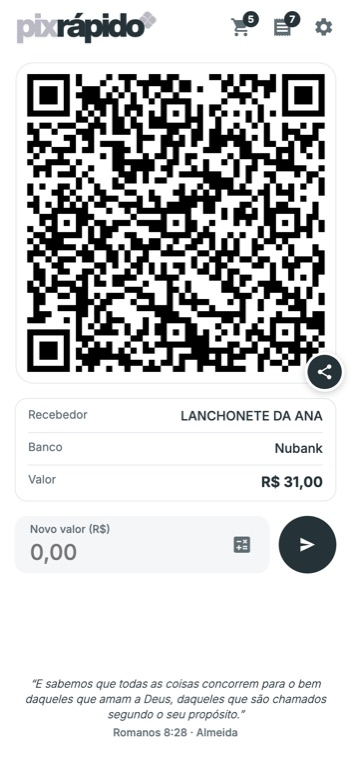
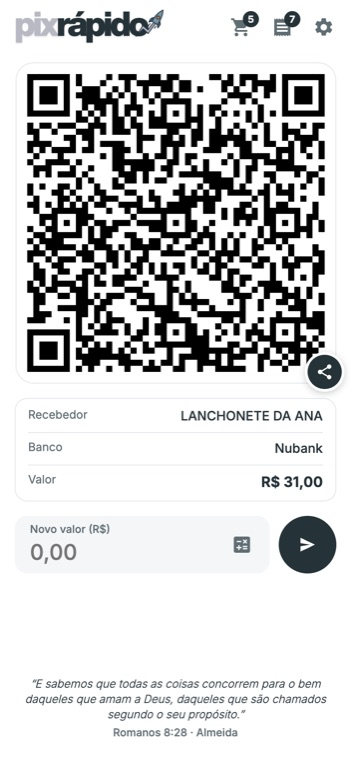
Nova identidade visual; política com legítimo interesse para anúncios não personalizados

Changed region(s): [[0.0855, 0.0, 0.4843, 0.0605], [0.057, 0.0303, 0.0855, 0.0605]]

diff --git a/privacidade/index.html b/privacidade/index.html
@@ -64,7 +64,12 @@
       </ul>
 
       <h2>5. Bases legais</h2>
-      <p>Tratamos dados com base no seu <strong>consentimento</strong> (LGPD, art. 7º, I), coletado na primeira abertura do app, e, quanto à cobrança da assinatura, na <strong>execução do contrato</strong> (art. 7º, V), realizada pela loja de aplicativos. A personalização de anúncios depende de consentimento específico e separado, que pode ser recusado sem prejuízo do uso do app.</p>
+      <ul>
+        <li><strong>Anúncios não personalizados (versão grátis):</strong> legítimo interesse (LGPD, art. 7º, IX e art. 10), para manter o app gratuito. O tratamento se limita ao necessário para entregar e medir anúncios e prevenir fraude, é informado na primeira abertura do app e nesta política, e você pode evitá-lo assinando o Pro ou deixando de usar o app.</li>
+        <li><strong>Anúncios personalizados:</strong> consentimento (art. 7º, I), opcional e separado, que pode ser recusado ou revogado sem nenhum prejuízo ao uso do app.</li>
+        <li><strong>Assinatura Pro:</strong> execução de contrato (art. 7º, V), com a cobrança feita pela loja de aplicativos.</li>
+        <li><strong>Versículo do dia:</strong> legítimo interesse, limitado ao endereço IP necessário para a requisição.</li>
+      </ul>
 
       <h2>6. Transferência internacional</h2>
       <p>Google e Apple podem tratar dados em servidores fora do Brasil. Essas transferências seguem as garantias previstas na LGPD (art. 33) e nas políticas desses fornecedores.</p>
@@ -77,7 +82,8 @@
       <ul>
         <li><strong>acesso e correção:</strong> nas telas do app (Configurações, Produtos e Caixa);</li>
         <li><strong>portabilidade:</strong> exportando o relatório em PDF, CSV ou TXT;</li>
-        <li><strong>eliminação e revogação:</strong> em <em>Configurações → Limpar meus dados</em>, que apaga tudo e revoga o consentimento, sem exigir assinatura;</li>
+        <li><strong>eliminação:</strong> em <em>Configurações → Limpar meus dados</em>, que apaga tudo, sem exigir assinatura;</li>
+        <li><strong>revogação e oposição:</strong> desative <em>Anúncios personalizados</em> em Configurações a qualquer momento; para se opor aos anúncios não personalizados, assine o Pro ou deixe de usar o app, e você também pode redefinir ou excluir o identificador de publicidade nos ajustes do aparelho;</li>
         <li><strong>anúncios:</strong> conforme o item 4. Para dados mantidos pelo Google ou pela Apple, use as ferramentas dessas empresas.</li>
       </ul>
       <p>Você também pode falar conosco (item 11) ou peticionar à Autoridade Nacional de Proteção de Dados (ANPD).</p>
